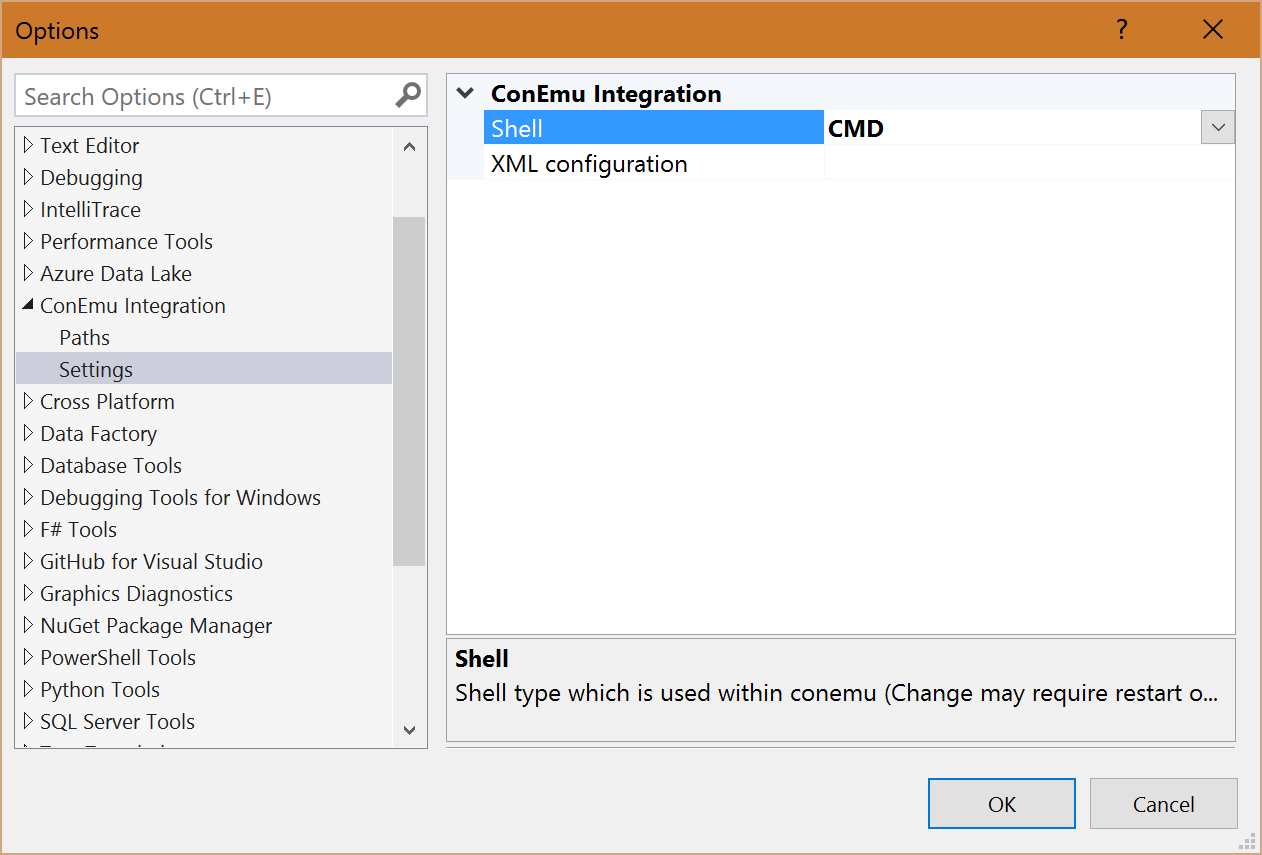
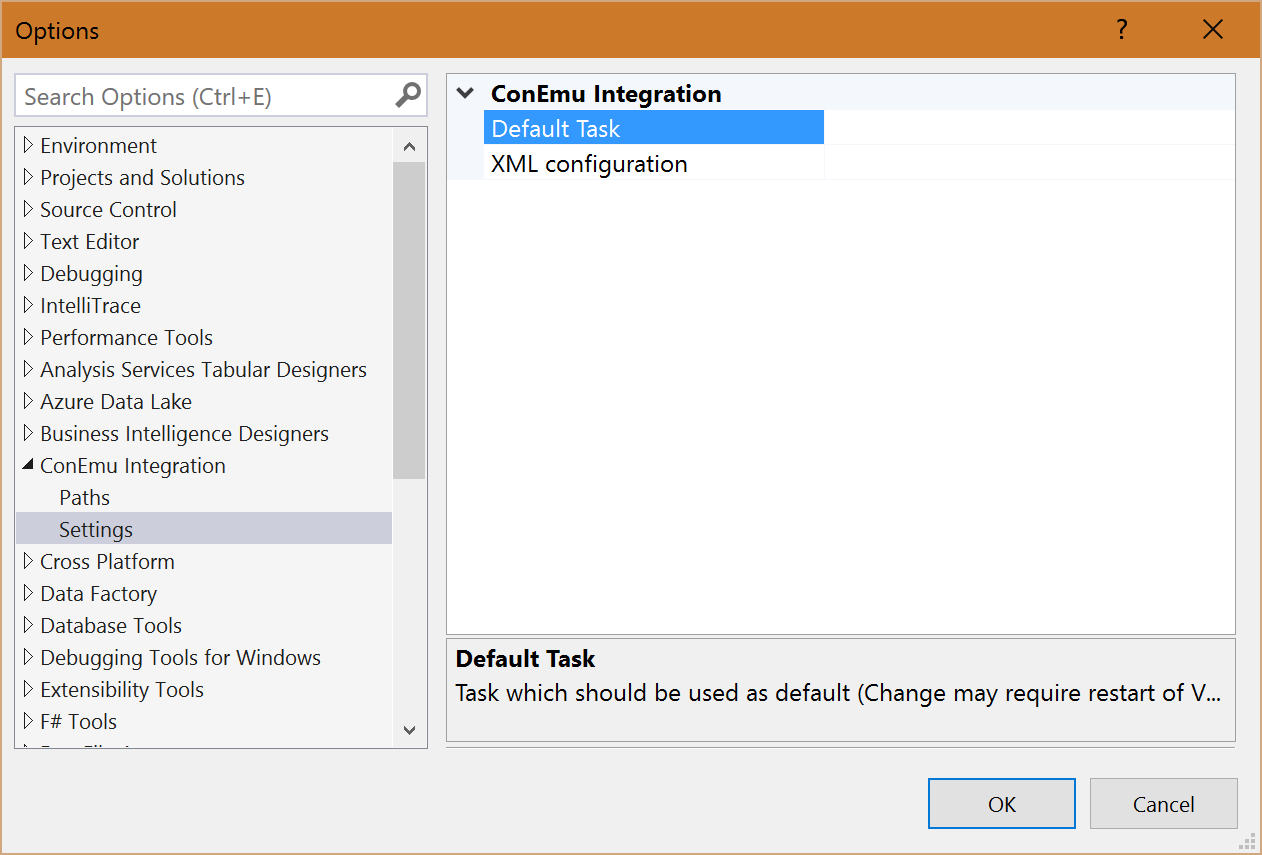
Added the possibility to configure the default task Remove the misleading hardcoded shell type configuration

diff --git a/ConEmuIntegration/SolutionExplorer/OpenInConEmu.cs b/ConEmuIntegration/SolutionExplorer/OpenInConEmu.cs
@@ -83,8 +83,8 @@ namespace ConEmuIntegration.SolutionExplorer
 
             var fullPath = new FileInfo(fullPathProperty.Value.ToString());
 
-            var shell = ProductEnvironment.Instance.GetShellType();
-            if(shell == Settings.OptionPageGridConEmu.ShellTypes.PowerShell)
+            var cd = ProductEnvironment.Instance.UseNormalChangeDirectory();
+            if (cd)
             {
                 ExecuteInConEmu.Instance.ExecuteGuiMacro("Print(@\"cd \"\"" +
                     fullPath.Directory.FullName.Replace("\"", "\"\"") + "\"\"\",\"\n\")");
@@ -112,8 +112,8 @@ namespace ConEmuIntegration.SolutionExplorer
                 var path = folders.GetProjectPath(selectedItem.Project);
                 var fullPath = new FileInfo(path);
 
-                var shell = ProductEnvironment.Instance.GetShellType();
-                if (shell == Settings.OptionPageGridConEmu.ShellTypes.PowerShell)
+                var cd = ProductEnvironment.Instance.UseNormalChangeDirectory();
+                if (cd)
                 {
                     ExecuteInConEmu.Instance.ExecuteGuiMacro("Print(@\"cd \"\"" +
                         fullPath.Directory.FullName.Replace("\"", "\"\"") + "\"\"\",\"\n\")");

diff --git a/ConEmuIntegration/ConEmuProduct/ProductEnvironment.cs b/ConEmuIntegration/ConEmuProduct/ProductEnvironment.cs
@@ -121,17 +121,26 @@ namespace ConEmuIntegration.ConEmuProduct
             return configFilePath;
         }
 
-        public ShellTypes GetShellType()
+        public string GetDefaultTask()
         {
             if (this.Package != null)
             {
                 var page = (OptionPageGridConEmu)this.Package.GetDialogPage(typeof(OptionPageGridConEmu));
                 if (page != null)
                 {
-                    return page.Shell;
+                    if (string.IsNullOrWhiteSpace(page.DefaultTask) == false)
+                    {
+                        return page.DefaultTask;
+                    }
                 }
             }
-            return ShellTypes.CMD;
+            return "{cmd}";
+        }
+
+        public bool UseNormalChangeDirectory()
+        {
+            string task = GetDefaultTask();
+            return task.Contains("cmd") == false;
         }
 
         public string GetWindowCaption()

diff --git a/ConEmuIntegration/Settings/OptionPageGridConEmu.cs b/ConEmuIntegration/Settings/OptionPageGridConEmu.cs
@@ -20,16 +20,10 @@ namespace ConEmuIntegration.Settings
 {
     internal sealed class OptionPageGridConEmu : DialogPage
     {
-        public enum ShellTypes
-        {
-            CMD,
-            PowerShell
-        }
-
         [Category("ConEmu Integration")]
-        [DisplayName("Shell")]
-        [Description("Shell type which is used within conemu (Change may require restart of Visual Studio)")]
-        public ShellTypes Shell { get; set; }
+        [DisplayName("Default Task")]
+        [Description("Task which should be used as default (Change may require restart of Visual Studio)")]
+        public string DefaultTask { get; set; }
 
         [Category("ConEmu Integration")]
         [DisplayName("XML configuration")]

diff --git a/ConEmuIntegration/SolutionExplorer/OpenOutpathInConEmu.cs b/ConEmuIntegration/SolutionExplorer/OpenOutpathInConEmu.cs
@@ -113,8 +113,8 @@ namespace ConEmuIntegration.SolutionExplorer
                         return;
                     }
 
-                    var shell = ProductEnvironment.Instance.GetShellType();
-                    if (shell == Settings.OptionPageGridConEmu.ShellTypes.PowerShell)
+                    var cd = ProductEnvironment.Instance.UseNormalChangeDirectory();
+                    if (cd)
                     {
                         ExecuteInConEmu.Instance.ExecuteGuiMacro("Print(@\"cd \"\"" +
                             path.Replace("\"", "\"\"") + "\"\"\",\"\n\")");

diff --git a/ConEmuIntegration/SolutionExplorer/ExecuteInConEmu.cs b/ConEmuIntegration/SolutionExplorer/ExecuteInConEmu.cs
@@ -148,8 +148,8 @@ namespace ConEmuIntegration.SolutionExplorer
 
             var file = Path.Combine(projectPath, outputPath, outputFileName);
 
-            var shell = ProductEnvironment.Instance.GetShellType();
-            if (shell == Settings.OptionPageGridConEmu.ShellTypes.PowerShell)
+            var cd = ProductEnvironment.Instance.UseNormalChangeDirectory();
+            if (cd)
             {
                 ExecuteGuiMacro("Print(@\"Invoke-Item \"\"" + file.Replace("\"", "\"\"") + "\"\"\",\"\n\")");
             }

diff --git a/ConEmuIntegration/ToolWindow/ConEmuWindowControl.xaml.cs b/ConEmuIntegration/ToolWindow/ConEmuWindowControl.xaml.cs
@@ -75,6 +75,7 @@ namespace ConEmuIntegration.ToolWindow
 
             var info = new ConEmuStartInfo();
             info.ConEmuExecutablePath = ProductEnvironment.Instance.GetConEmuExecutable();
+            info.ConsoleProcessCommandLine = ProductEnvironment.Instance.GetDefaultTask();
 
             info.BaseConfiguration = new XmlDocument();
             info.BaseConfiguration.Load(ProductEnvironment.Instance.GetConfigurationFile());

diff --git a/README.md b/README.md
@@ -72,11 +72,9 @@ E.g.: C:\Users\David Roller\Downloads\ConEmuPack.160504\ConEmu.exe<br/>
 ### ConEmu settings
 Visual Studio settings page to make it possible to change settings of ConEmu.
 
-#### Change the type of the shell
-The commands sended from the solution explorer extension are dependend on the type of shell.
-E.g. in CMS it uses "cd /d" and in powershell only "cd".<br/>
-
-Because of this you have to configure the shell type that Visual Studio knows which set of commands it should use.<br/>
+#### Change the default conemu task
+Using this configuration it is possible to change the startup or default task which is used by the embedded conemu<br/>
+The default setting for this is {cmd}.<br/>
 <img src="Images/SettingsConEmuShell.png" width="400" /><br/>
 
 #### Optional: External Conemu configuration XML

diff --git a/CHANGELOG.md b/CHANGELOG.md
@@ -86,3 +86,10 @@ on the official Visual Studio extension gallery.
 - [x] Bug fix: ConEmu panel can have a zero size which results in an assert within conemu
 - [x] Bug fix: ConEmu panel gets not closed if one of multiple consoles are closed
 - [x] Added a keyboard shortcut to open conemu
+
+## 2.0.0.8
+
+**2016-07-05**
+
+- [x] Added the possibility to configure the default task
+- [x] Remove the misleading hardcoded shell type configuration 
